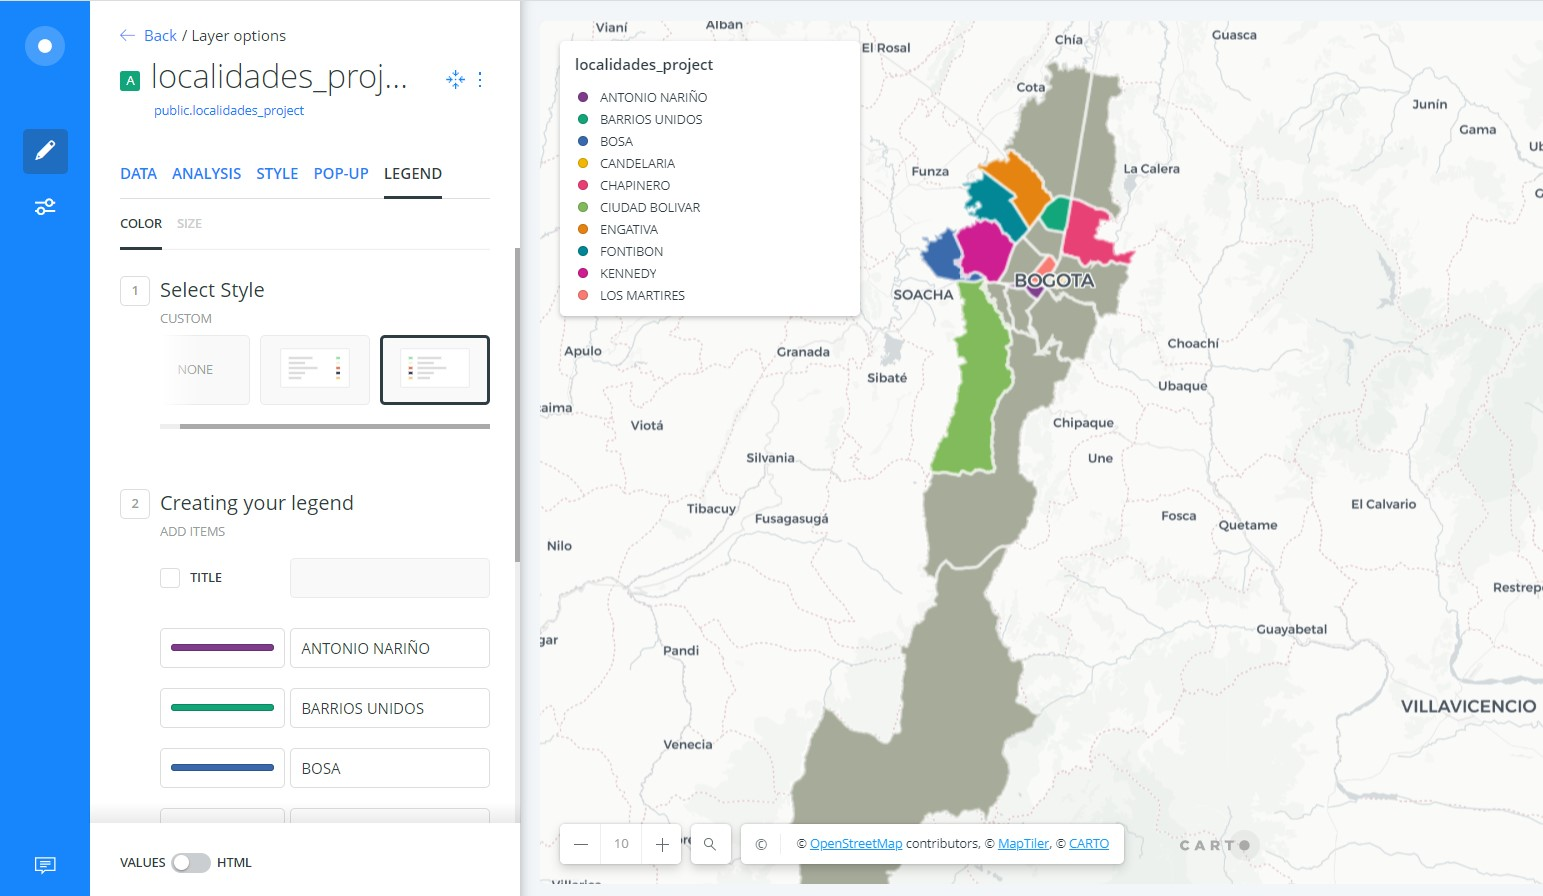
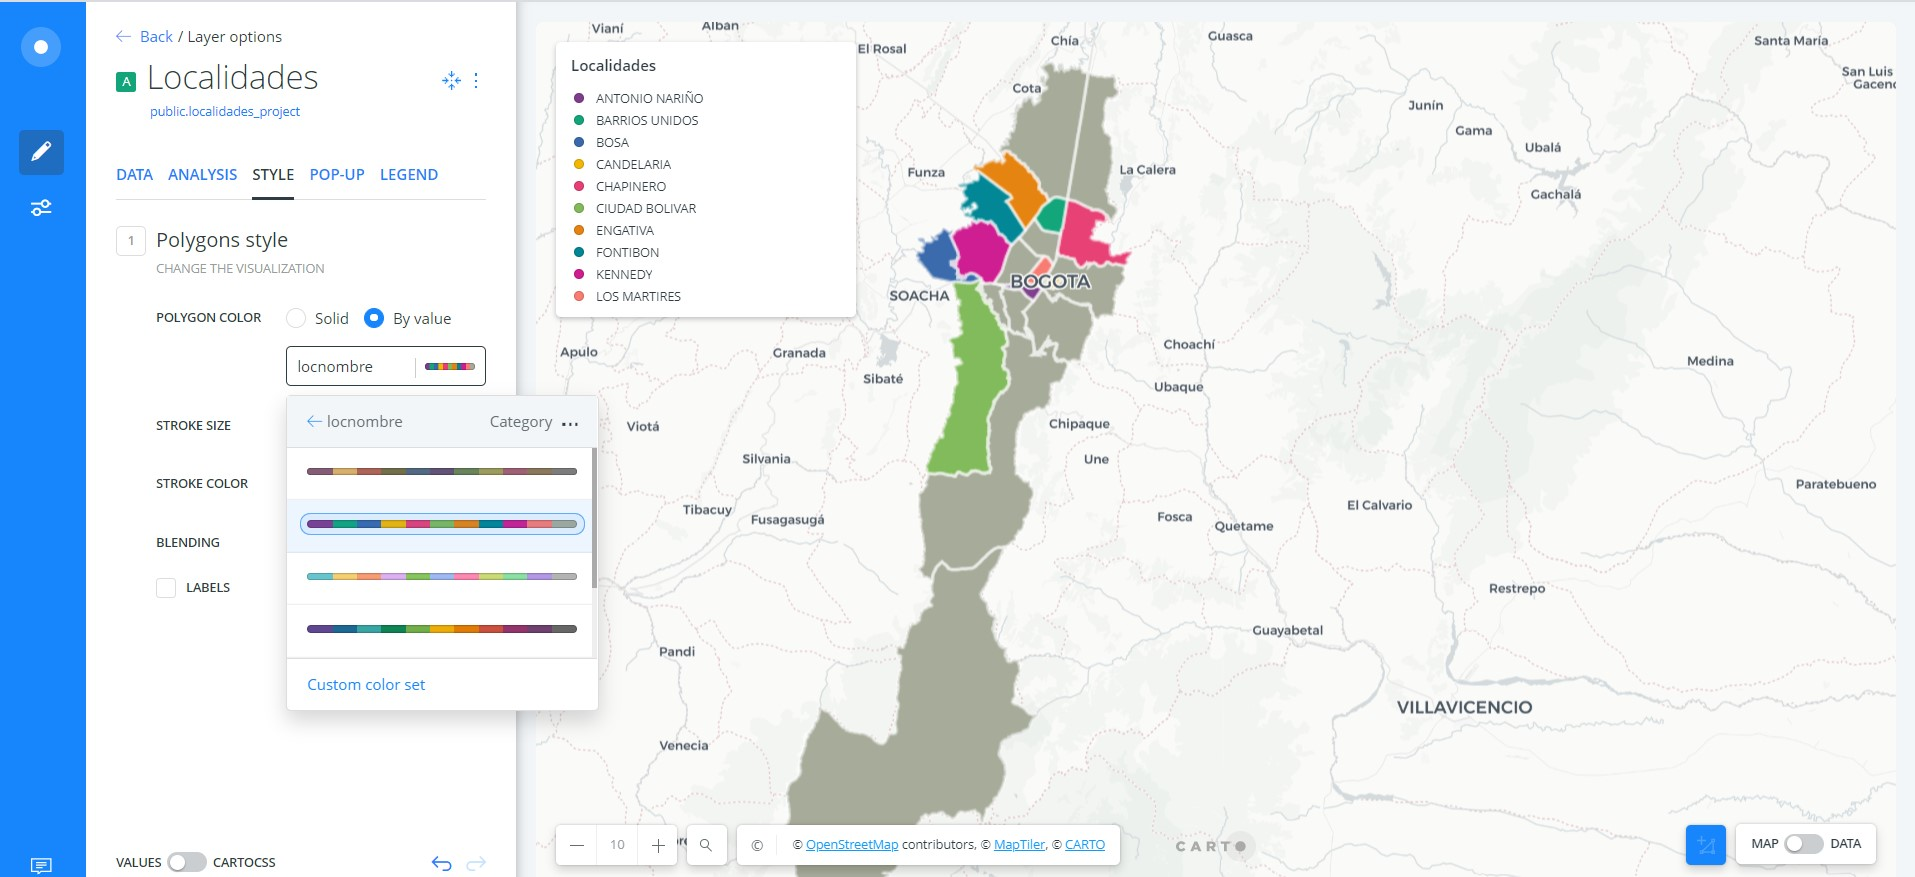
15.jpg

diff --git a/README.md b/README.md
@@ -96,13 +96,11 @@ Bogotá durante el período de confinamiento y el año anterior se realiza una i
 
 Capa | Atributos Principales 
 ---|---
-**Estaciones Red Calidad aire** | xxxxxxx QUE TIPO DE VARIABLE ES ????
-**Localidades**: Categórica | xxxxx
-**Concentración de Ozono Promedio Mensual** | xxxxx
+**Estaciones Red Calidad aire**: Categórica | Nombre de la estación, Ubicación
+**Localidades**: Categórica | Nombre de la localidad 
+**Concentración de Ozono Promedio Mensual**: Geometría tipo poligono | Promedio concentración de ozono 
 
 DEBO REALIZAR EL MOCKUP- DONDE SE INTERACTUE CON UN MAPA Y LAS VARIABLES (CATEGORICAS) 
-
-
 
 
 * Describir de forma detallada el procedimiento utilizado para publicar la aplicación.
@@ -123,13 +121,19 @@ Podemos hacer el preview de las geometrías y seguidamente crear un mapa
 
 ![Región_Andina]( 11.jpg "Región_Andina")
 
-Donde se puede cambiar el estilo del Basemap, aplicar simbología al mapa, crear leyenda y ventanas emergentes, para cada una de las mapas que se han cargado. 
+Donde se puede cambiar el estilo del Basemap, aplicar simbología al mapa, crear leyenda y ventanas emergentes, para cada una de las capas que se han cargado. 
 
 ![Región_Andina]( 12.jpg "Región_Andina")
 
-En las pestaña Legend se insertó la leyenda de tipo categorico para la capa de localidades 
+Se selecciona la capa con la cual se va a trabajar, en la pestaña *Style* > *By value* se selecciona el atributo que va a ser representado por medio de la simbología, en este caso el nombre de la localidad (locnombre)
 
 ![Región_Andina]( 13.jpg "Región_Andina")
+
+Seguido en la pestaña Legend se inserta la leyenda de tipo categórico para la capa de localidades 
+
+![Región_Andina]( 14.jpg "Región_Andina")
+
+![Región_Andina]( 15.jpg "Región_Andina")
 
 
 
@@ -138,6 +142,8 @@ En las pestaña Legend se insertó la leyenda de tipo categorico para la capa de
 
 
 * Describir el criterio para la selección de los colores a utilizar en la simbología
+
+El criterio que usado para seleccionar la simbología fue categórico puesto que el atributo seleccionado (locnombre) describe un conjunto de entidades con el mismo valor de atributo. 
 
 * Incluir url en línea al tablero de control publicado. Ejemplo: https://gkudos.carto.com/u/kudosg/builder/501b7abf-3809-41e7-a71b-39223fb3dbbf/embed
 
